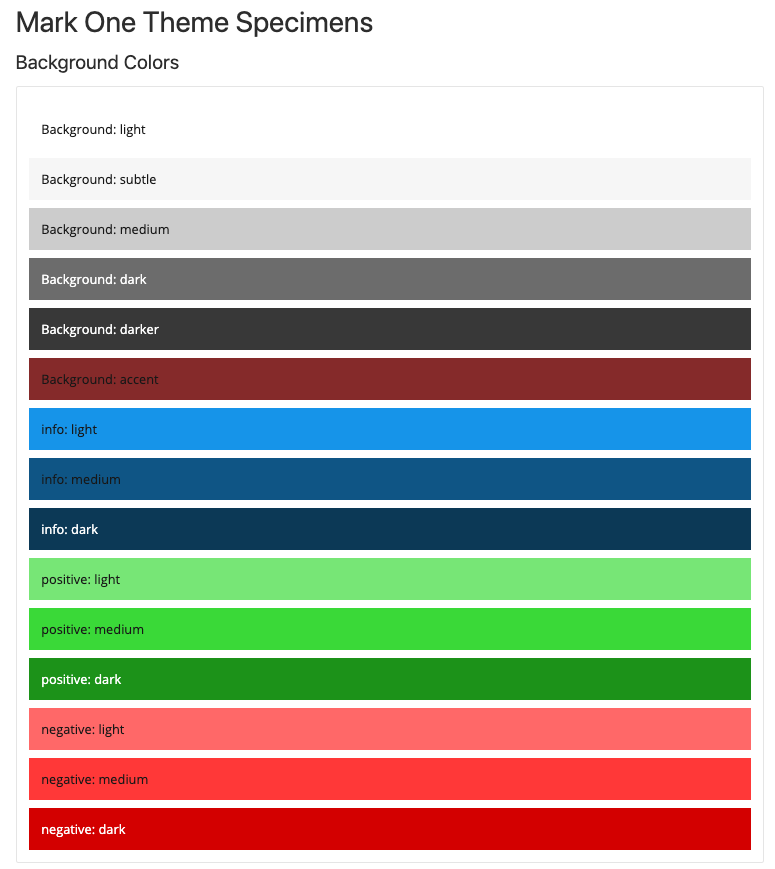
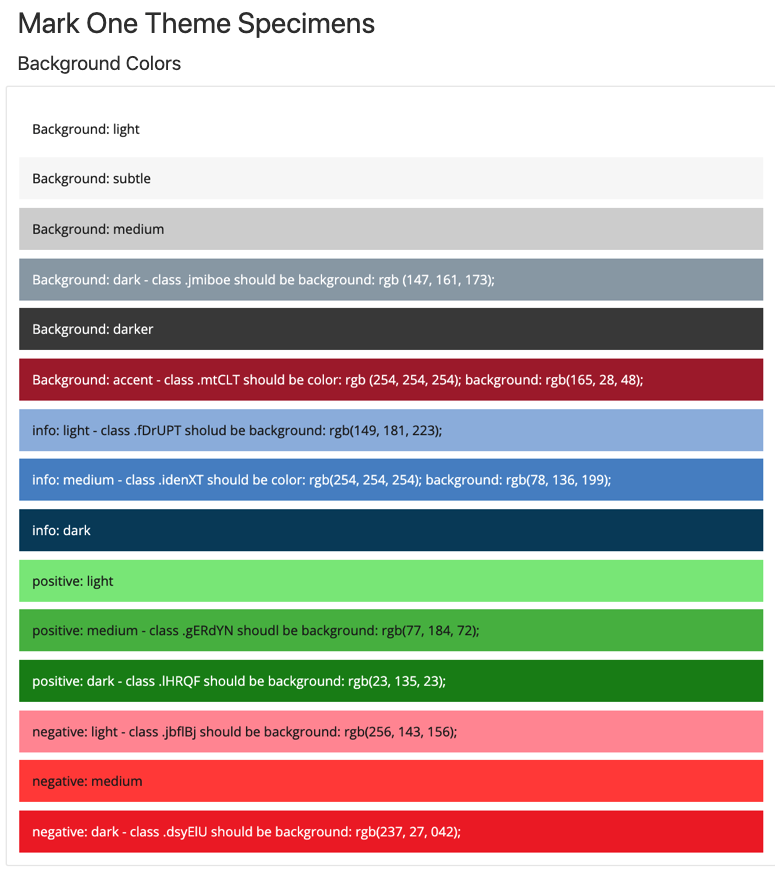
Add files via upload
Recommended Harvard colors

diff --git a/mark-one_colors_harvard/index.html b/mark-one_colors_harvard/index.html
@@ -1,23 +1,35 @@
-<!-- Current UI code on https://seas-computing.github.io/mark-one/#mark-one-theme-specimens -->
+<!-- Proposed accessibility colors for https://seas-computing.github.io/mark-one/#mark-one-theme-specimens -->
 
 <div class="rsg--preview-35" data-preview="MarkOneWrapper">
-    <div>
         <div>
-            <div value="light" class="sc-gqjmRU ccMzfd">Background: light</div>
-            <div value="subtle" class="sc-gqjmRU dPKwax">Background: subtle</div>
-            <div value="medium" class="sc-gqjmRU mwVXH">Background: medium</div>
-            <div value="dark" class="sc-gqjmRU jniboe">Background: dark</div>
-            <div value="darker" class="sc-gqjmRU isYYzO">Background: darker</div>
-            <div value="accent" class="sc-gqjmRU mtCLT">Background: accent</div>
-            <div value="light" class="sc-gqjmRU fDrUPT">info: light</div>
-            <div value="medium" class="sc-gqjmRU idenXT">info: medium</div>
-            <div value="dark" class="sc-gqjmRU egagnU">info: dark</div>
-            <div value="light" class="sc-gqjmRU HYBmM">positive: light</div>
-            <div value="medium" class="sc-gqjmRU gERdYN">positive: medium</div>
-            <div value="dark" class="sc-gqjmRU lHRQF">positive: dark</div>
-            <div value="light" class="sc-gqjmRU jbflBj">negative: light</div>
-            <div value="medium" class="sc-gqjmRU cvxwPV">negative: medium</div>
-            <div value="dark" class="sc-gqjmRU dsyElU">negative: dark</div>
+            <div>
+                <div value="light" class="sc-gqjmRU ccMzfd">Background: light</div>
+                <div value="subtle" class="sc-gqjmRU dPKwax">Background: subtle</div>
+                <div value="medium" class="sc-gqjmRU mwVXH">Background: medium</div>
+                <div style="margin-top: 10px;
+        color: rgb(254, 254, 254);
+        background: rgb(147, 161, 173);
+        padding: 15px;" class="sc-gqjmRU" value="dark">Background: dark - class .jmiboe should be background: rgb (147, 161, 173);</div>
+                <div value="darker" class="sc-gqjmRU isYYzO">Background: darker</div>
+                <div class="sc-gqjmRU" style="margin-top: 10px;
+        color: rgb(254, 254, 254);
+        background: rgb(165, 28, 48);
+        padding: 15px;" value="accent">Background: accent - class .mtCLT should be color: rgb (254, 254, 254); background: rgb(165, 28, 48);</div>
+                <div value="light" class="sc-gqjmRU fDrUPT" style="background: rgb(149, 181, 223);">info: light - class .fDrUPT sholud be background: rgb(149, 181, 223);</div>
+                <div value="medium" class="sc-gqjmRU" style="margin-top: 10px;
+        color: rgb(254, 254, 254);
+        background: rgb(78, 136, 199);
+        padding: 15px;">info: medium - class .idenXT should be color: rgb(254, 254, 254); background: rgb(78, 136, 199);</div>
+                <div value="dark" class="sc-gqjmRU egagnU">info: dark</div>
+                <div value="light" class="sc-gqjmRU HYBmM">positive: light</div>
+                <div value="medium" class="sc-gqjmRU gERdYN" style="background: rgb(77, 184, 72);">positive: medium - class .gERdYN shoudl be background: rgb(77, 184, 72);</div>
+                <div value="dark" class="sc-gqjmRU" style="margin-top: 10px;
+        color: rgb(254, 254, 254);
+        background: rgb(23, 135, 23);
+        padding: 15px;">positive: dark - class .lHRQF should be background: rgb(23, 135, 23);</div>
+                <div value="light" class="sc-gqjmRU jbflBj" style="background: rgb(256, 143, 156);">negative: light - class .jbflBj should be background: rgb(256, 143, 156);</div>
+                <div value="medium" class="sc-gqjmRU cvxwPV">negative: medium</div>
+                <div value="dark" class="sc-gqjmRU dsyElU" style="background: rgb(237, 27, 042);">negative: dark - class .dsyElU should be background: rgb(237, 27, 042);</div>
+            </div>
         </div>
     </div>
-</div>
